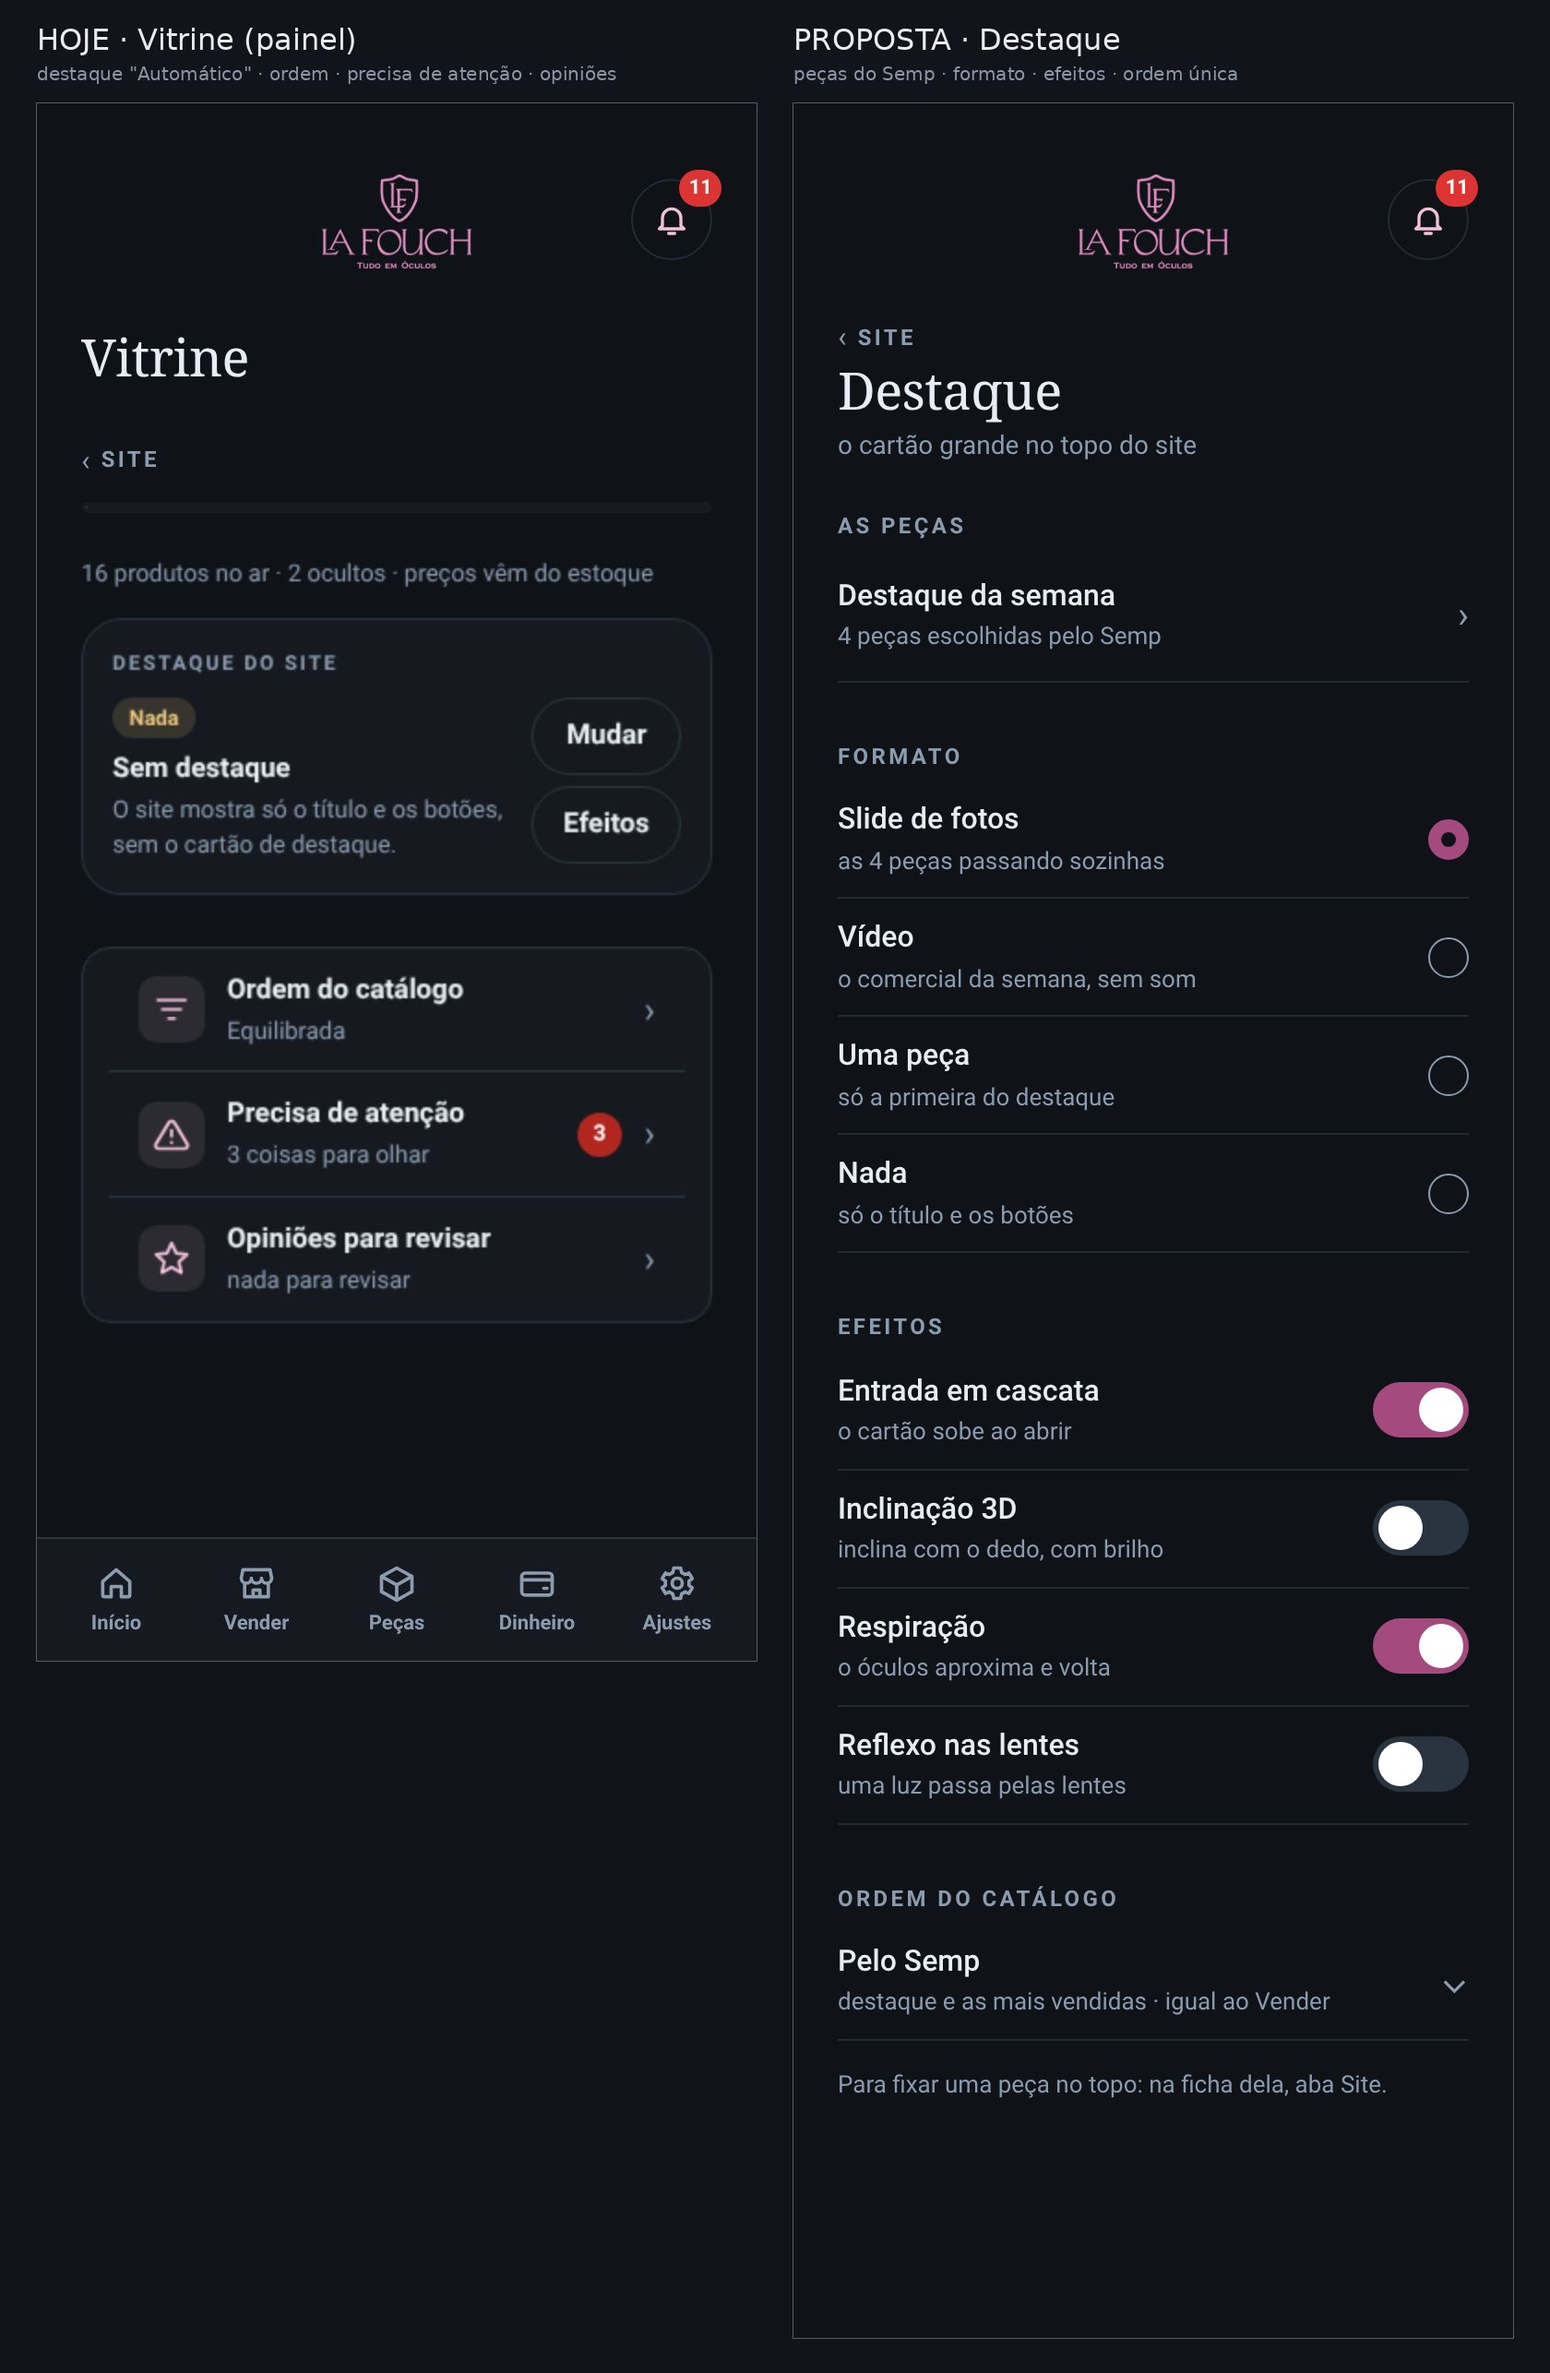
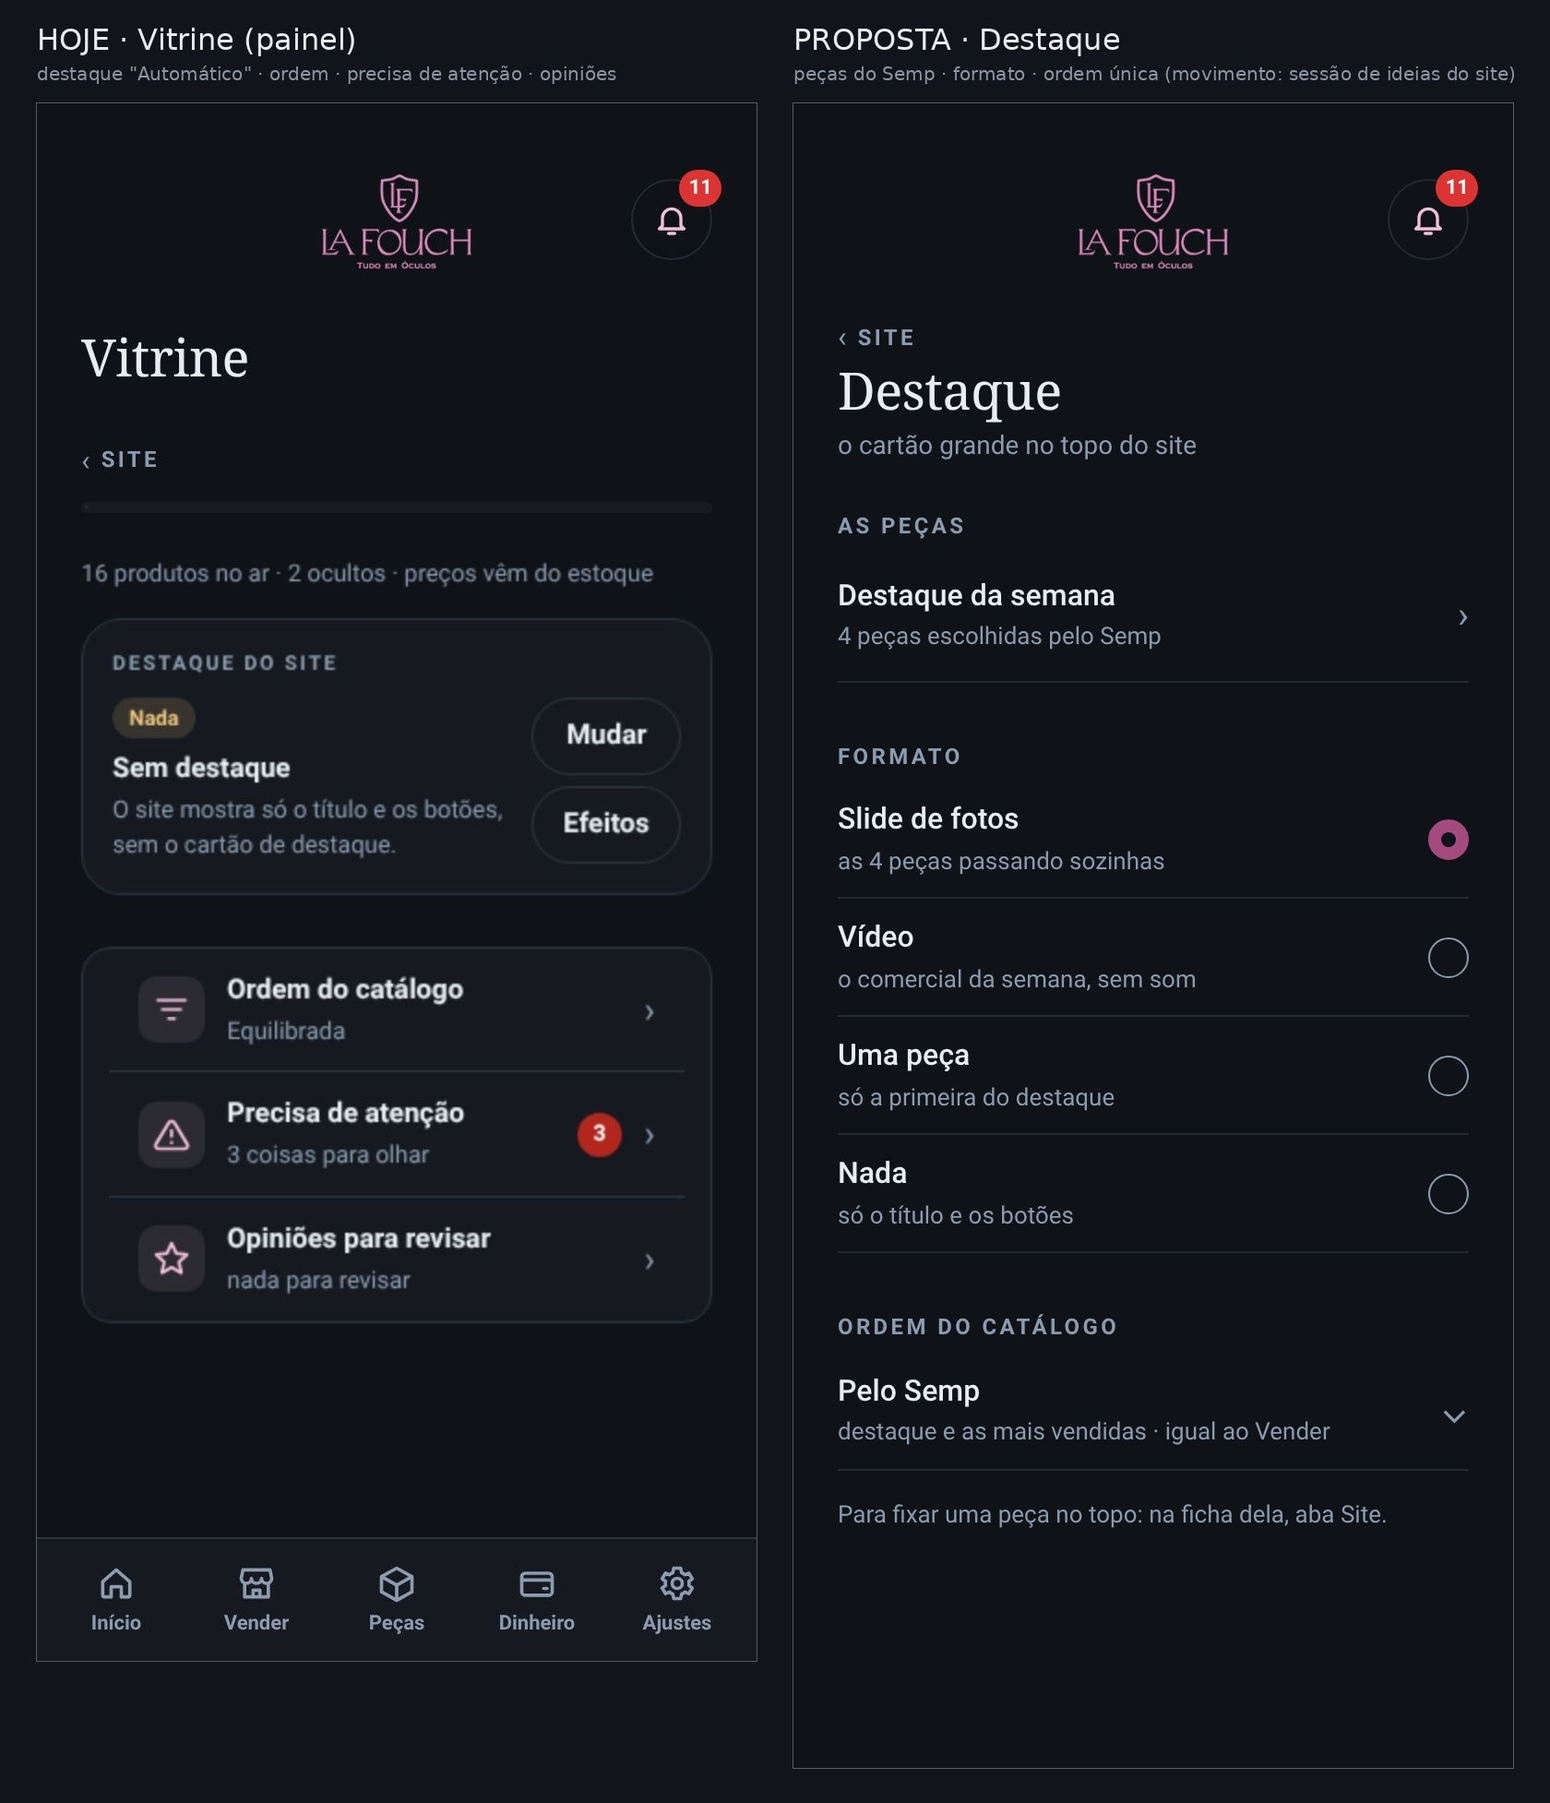
Esboço 58d sem Efeitos (agora da IDEIAS)
Claude-Session: https://claude.ai/code/session_01Vj5GPRt4UBskC3w8v52h7G

diff --git a/work/s435/painelsite/esboco_58cd.py b/work/s435/painelsite/esboco_58cd.py
@@ -26,12 +26,11 @@ def destaque(pw):
    return '<div class="e49">'+TOP('Site','Destaque','o cartão grande no topo do site',0)+
     T('As peças',1)+'<div style="display:flex;align-items:center;gap:16px;min-height:72px;border-bottom:1px solid var(--line2)"><span style="flex:1;min-width:0"><b style="display:block;font-size:16px;font-weight:500">Destaque da semana</b><small style="font-size:13px;color:var(--mute)">4 peças escolhidas pelo Semp</small></span><i style="font-style:normal;color:var(--mute);font-size:20px">›</i></div>'+
     T('Formato')+RAD('Slide de fotos','as 4 peças passando sozinhas',1)+RAD('Vídeo','o comercial da semana, sem som',0)+RAD('Uma peça','só a primeira do destaque',0)+RAD('Nada','só o título e os botões',0)+
-    T('Efeitos')+SW('Entrada em cascata','o cartão sobe ao abrir',1)+SW('Inclinação 3D','inclina com o dedo, com brilho',0)+SW('Respiração','o óculos aproxima e volta',1)+SW('Reflexo nas lentes','uma luz passa pelas lentes',0)+
     T('Ordem do catálogo')+'<div style="display:flex;align-items:center;gap:16px;min-height:64px;border-bottom:1px solid var(--line2)"><span style="flex:1;min-width:0"><b style="display:block;font-size:16px;font-weight:500">Pelo Semp</b><small style="font-size:13px;color:var(--mute)">destaque e as mais vendidas · igual ao Vender</small></span><i style="font-style:normal;color:var(--mute);font-size:20px">⌄</i></div>'+
     '<div style="color:var(--mute);font-size:13px;margin:16px 0 32px">Para fixar uma peça no topo: na ficha dela, aba Site.</div></div>'}""",I)
   pagina(pg,html);w(500);pg.add_style_tag(content='#mainnav,#nvBar{display:none!important}')
   confere(pg,'Destaque proposta');pg.screenshot(path='/tmp/d58.png',full_page=True);x=Image.open('/tmp/d58.png').copy();b.close();return x
 with sync_playwright() as pw:
   quadro('esboco_58c_familia_site.jpg',[('HOJE · Site','Resumo · Pedidos · Mensagens · Vitrine · Modelos',indice(pw,0)),('PROPOSTA · Site','sem repetir: Modelos e Analisador saem · Avaliações juntas',indice(pw,1))])
-  quadro('esboco_58d_destaque.jpg',[('HOJE · Vitrine (painel)','destaque "Automático" · ordem · precisa de atenção · opiniões',Image.open(O+'h4_vitrine.jpg').crop((0,0,780,1688))),('PROPOSTA · Destaque','peças do Semp · formato · efeitos · ordem única',destaque(pw))])
+  quadro('esboco_58d_destaque.jpg',[('HOJE · Vitrine (painel)','destaque "Automático" · ordem · precisa de atenção · opiniões',Image.open(O+'h4_vitrine.jpg').crop((0,0,780,1688))),('PROPOSTA · Destaque','peças do Semp · formato · ordem única (movimento: sessão de ideias do site)',destaque(pw))])
 for n,f in REL: print(n,len(f),f[:4])

diff --git a/docs/FALTA-APROVAR-15-11.md b/docs/FALTA-APROVAR-15-11.md
@@ -1073,3 +1073,4 @@ Não são esquecimento (estavam na lista, parados de propósito ou por ordem do 
 - 22/11 05:48 · ESBOCO: regra 7 — 49b (→ 58 Site, Modelos vira filtro no Inventário) e 50 (→ 52, Giro desfeito) movidos para obsoletos; não precisam de resposta. Próximo enviado: 53 (Destaque da semana do Semp).
 - 22/11 05:55 · ESBOCO: 53 refeito só no ícone — 'Destaque da semana' ganha a MEDALHA (a estrela já é o ícone de Criar; um ícone por linha). Comparador: única marca é a área de toque do '‹ Marketing' (44 px) encostando 4 px no título — igual no app de hoje, não é do esboço. Enviado ao dono.
 - 22/11 05:56 · DONO: 'aprovado tudo' → APROVADO o 53 (Destaque da semana do Semp, com a medalha). Dúvida dele: destaque da semana × destaque do site = redundância? Resposta: é UMA lista só, dona = Marketing › Destaque da semana; o Site › Destaque só escolhe o formato e mostra as peças como link › para a lista do Semp (58d), sem lista própria; o 'Automático' antigo sai.
+- 22/11 06:00 · ESBOCO: 58d refeito SEM a seção Efeitos (movimento do site agora é da sessão IDEIAS). Comparador: só a área de toque do '‹ Site' encostando no título, igual ao app de hoje. 58c e 58d enviados ao dono (parte 4), com a pergunta: o painel web lafouch.com/admin sai?

diff --git a/docs/MEMORIA-PROJETO.md b/docs/MEMORIA-PROJETO.md
@@ -3577,3 +3577,4 @@ Testar TUDO, com muita calma, antes de dizer que está pronto ou de publicar: ca
 - 22/11 05:48 · ESBOCO: regra 7 — 49b (→ 58 Site, Modelos vira filtro no Inventário) e 50 (→ 52, Giro desfeito) movidos para obsoletos; não precisam de resposta. Próximo enviado: 53 (Destaque da semana do Semp).
 - 22/11 05:55 · ESBOCO: 53 refeito só no ícone — 'Destaque da semana' ganha a MEDALHA (a estrela já é o ícone de Criar; um ícone por linha). Comparador: única marca é a área de toque do '‹ Marketing' (44 px) encostando 4 px no título — igual no app de hoje, não é do esboço. Enviado ao dono.
 - 22/11 05:56 · DONO: 'aprovado tudo' → APROVADO o 53 (Destaque da semana do Semp, com a medalha). Dúvida dele: destaque da semana × destaque do site = redundância? Resposta: é UMA lista só, dona = Marketing › Destaque da semana; o Site › Destaque só escolhe o formato e mostra as peças como link › para a lista do Semp (58d), sem lista própria; o 'Automático' antigo sai.
+- 22/11 06:00 · ESBOCO: 58d refeito SEM a seção Efeitos (movimento do site agora é da sessão IDEIAS). Comparador: só a área de toque do '‹ Site' encostando no título, igual ao app de hoje. 58c e 58d enviados ao dono (parte 4), com a pergunta: o painel web lafouch.com/admin sai?
